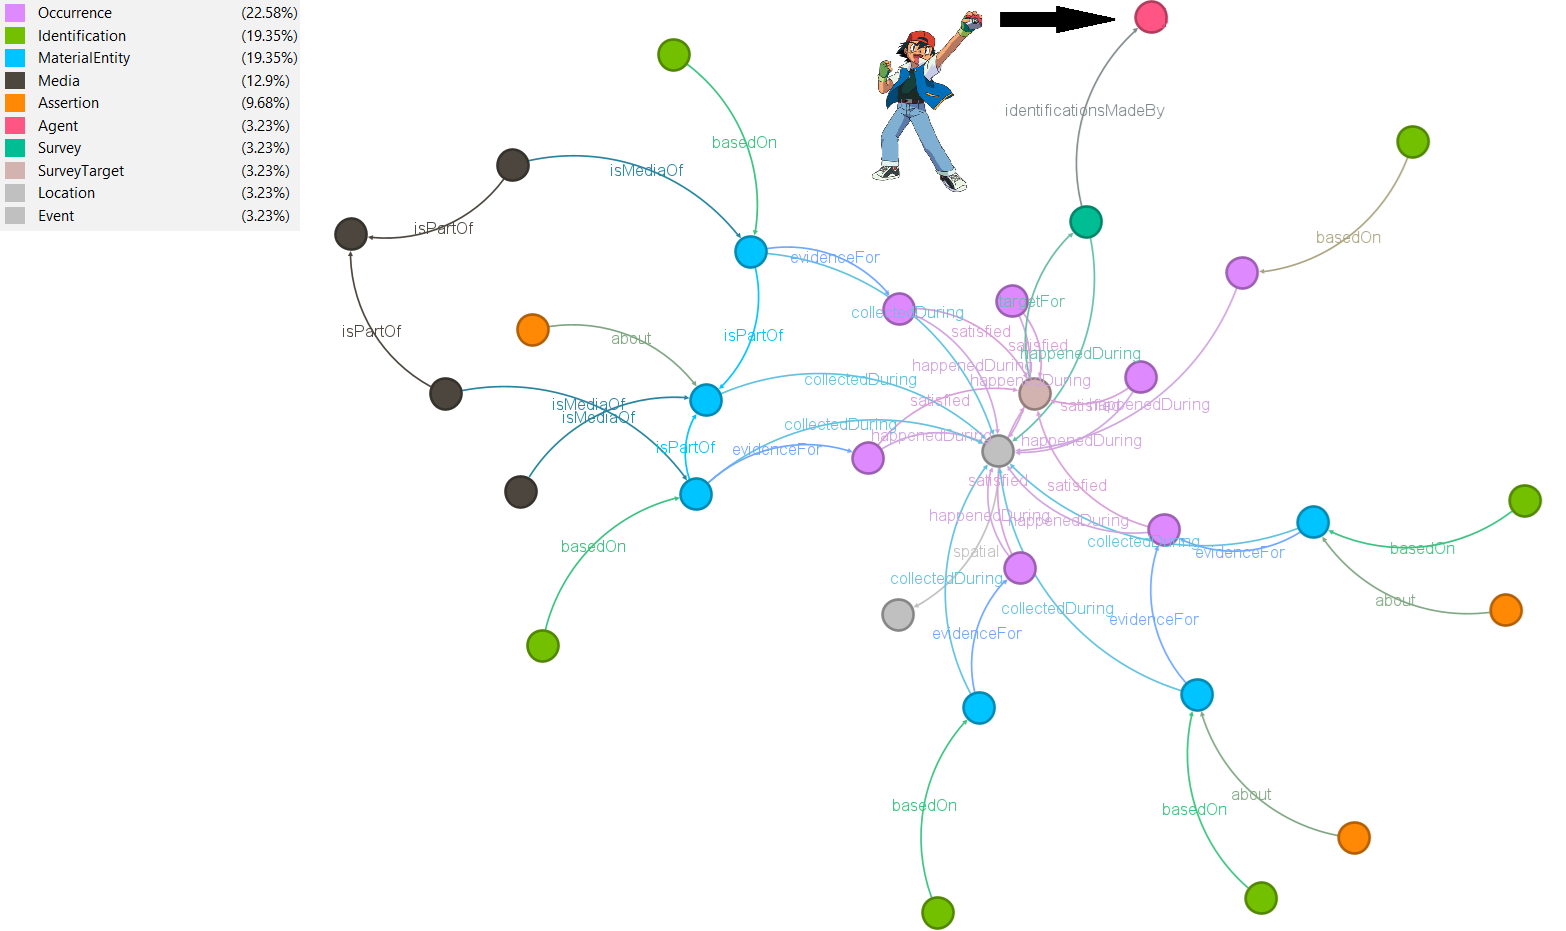
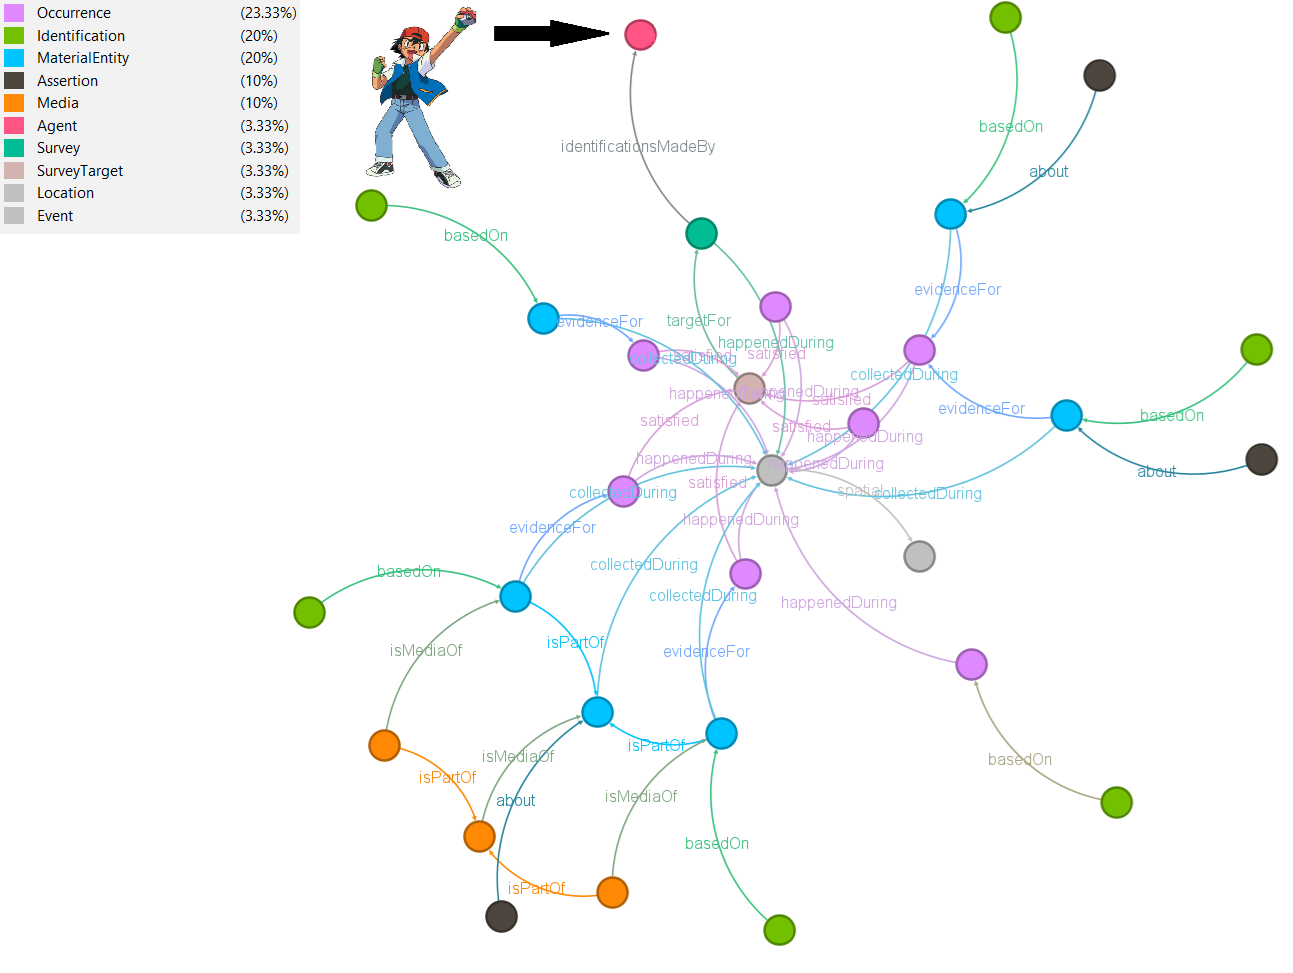
fix loose media node in viridian example

diff --git a/README.md b/README.md
@@ -28,7 +28,7 @@ Whereas the Viridian forest survey dataset contained `251` triples, the Broke-We
 
 ![Directed graph of the Broke-West fish dataset](images/broke-directed-graph.png)
 
-The Insektmobilen dataset produced an extremely high number of triples, due to its identification related to barcoding. Indeed, graphical representation of a subset produced `425 018` triples. The clusterings of dwc:Identifications correspond to successful BLAST query matches against the BOLD database. As identifications were based on dwc:NucleotideSequences, this clustering is logical and desired from a semantic point of view.
+The Insektmobilen dataset produced an extremely high number of triples, due to its identification related to barcoding. Indeed, graphical representation of a subset produced `425 018` triples. The clusterings of `dwc:Identifications` correspond to successful BLAST query matches against the BOLD database. As identifications were based on dwc:NucleotideSequences, this clustering is logical and desired from a semantic point of view.
 
 ![Directed graph of the Insektmobilen dataset](images/insektmobilen-directed-graph.png)
 
@@ -36,21 +36,21 @@ For the AMI dataset, none of dcterms:Agents were human, being either instruments
 
 ![Directed graph of the AMI dataset](images/ami-directed-graph.png)
 
-The NMNH paleobiology dataset, when expressed as a (somewhat) direct RDF translation of the relational tables in the DataPackage, produced a disconnected graph. The main graph is evident, with around it several subgraphs or even single nodes. Note that this is not an issue for RDF, as these resources are still queryable. Nonetheless, some additional relating of data, such as relating dwc:Identification to the dwc:MaterialEntity on which they are based would connect the isolated subgraphs to the main graph.
+The NMNH paleobiology dataset, when expressed as a (somewhat) direct RDF translation of the relational tables in the DataPackage, produced a disconnected graph. The main graph is evident, with around it several subgraphs or even single nodes. Note that this is not an issue for RDF, as these resources are still queryable. Nonetheless, some additional relating of data, such as relating `dwc:Identification` to the `dwc:MaterialEntity` on which they are based would connect the isolated subgraphs to the main graph.
 
 ![Directed graph of the NMNH paleobiology dataset](images/nmnh-directed-graph.png)
 
-The crop-flower-visit dataset, when expressed as a direct translation of the star-schema based Darwin Core Archive, produced isolated small islands of entities. In each case, there was a central dwc:Event, from which several dwc:MaterialEntities were collected and dwc:Identifications were done on these preserved individuals. Accordingly, these dwc:Identifications form the basis of evidence for the dwc:Occurrence of the taxa at said site. This is what gives rise to the flower-like pattern seen in the graph. To connect these islands of entities, and to do so in a meaningful manner, a dwc:Protocol instance was created and pointed to the original paper of the study.
+The crop-flower-visit dataset, when expressed as a direct translation of the star-schema based Darwin Core Archive, produced isolated small islands of entities. In each case, there was a central `dwc:Event`, from which several `dwc:MaterialEntities` were collected and `dwc:Identifications` were done on these preserved individuals. Accordingly, these dwc:Identifications form the basis of evidence for the dwc:Occurrence of the taxa at said site. This is what gives rise to the flower-like pattern seen in the graph. To connect these islands of entities, and to do so in a meaningful manner, a dwc:Protocol instance was created and pointed to the original paper of the study.
 
 ![Directed graph of the crop-flower-visit dataset](images/crop-directed-graph.png)
 
-In the case of the turtle-remote-sensing dataset, every dwc:Event is a signal from the radio transmitter. Each of these represent a geolocalized occurrence of a particular individual dwc:Organism, whose path can be followed across space and time. This type of data will become particularly important, especially when considering networks that accumulate, study and share this data, such as [Move BON](https://geobon.org/move-bon/).
+In the case of the turtle-remote-sensing dataset, every `dwc:Event` is a signal from the radio transmitter. Each of these represent a geolocalized occurrence of a particular individual `dwc:Organism`, whose path can be followed across space and time. This type of data will become particularly important, especially when considering networks that accumulate, study and share this data, such as [Move BON](https://geobon.org/move-bon/).
 
 ![Directed graph of the turtle-remote-sensing dataset](images/turtle-directed-graph.png)
 
 ## Value of revisiting datasets
 
-The crop-flower-visit dataset was originally published as an sampling event dataset on GBIF, and was registered on September 1st 2023. As it is, the dataset has information not only on insect visitors, but also on several other entities, such as the plants they visited, dwc:Assertions about these plants (the sex of the plant), and the nature of the relationship itself, which is a type of dwc:OrganismInteraction. However, the entirety of this information is provided as free-form text in the data property such as dwc:OccurrenceRemarks.
+The crop-flower-visit dataset was originally published as an sampling event dataset on GBIF, and was registered on September 1st 2023. As it is, the dataset has information not only on insect visitors, but also on several other entities, such as the plants they visited, `dwc:Assertions` about these plants (the sex of the plant), and the nature of the relationship itself, which is a type of `dwc:OrganismInteraction`. However, the entirety of this information is provided as free-form text in the data property such as `dwc:OccurrenceRemarks`.
 
 ![Directed graph of the reworked crop-flower-visit dataset](images/cropv2-directed-graph.png)
 
@@ -74,9 +74,9 @@ SELECT ?occPol ?occSci WHERE {
 }
 ```
 
-The query is a simple SPARQL query with regex-based pattern searching othe `dwc:occurrenceRemarks` entry. However, given that the study occurred in Japan, it is entirely possible that the researchers could have chosen the term `雄花` instead of `male` to define the sex of the flower. In this case, regexing becomes much more complicated for additional reasons. For example, would the researcher consider the kanji `雄花` or hiragana `ゆうか`? Would he consider the literal term `male` or a symbol such as `♂`?
+The query is a simple SPARQL query with regex-based pattern searching of the `dwc:occurrenceRemarks` entry. However, given that the study occurred in Japan, it is entirely possible that the researchers could have chosen the term `雄花` instead of `male` to define the sex of the flower. In this case, regexing becomes much more complicated for additional reasons. For example, would the researcher consider the kanji `雄花` or hiragana `ゆうか`? Would he consider the literal term `male` or a symbol such as `♂`?
 
-On the other hand, the SPARQL query that is based on the DWC-OWL ontology is a bit more verbose and consists of:
+On the other hand, the SPARQL query that is based on the DWC-OWL ontology is a bit more verbose, but is much more concise and consists of:
 
 ```sparql
 PREFIX dwc: <http://rs.tdwg.org/dwc/terms/>
